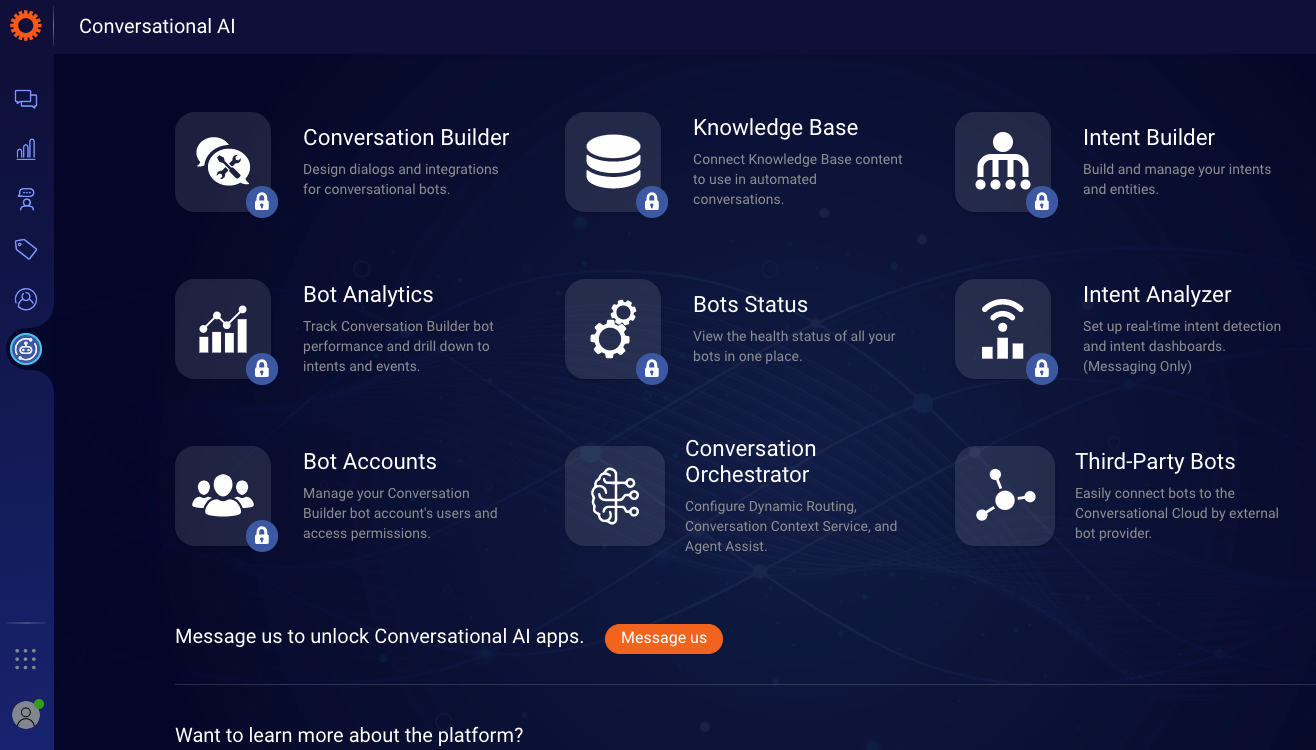
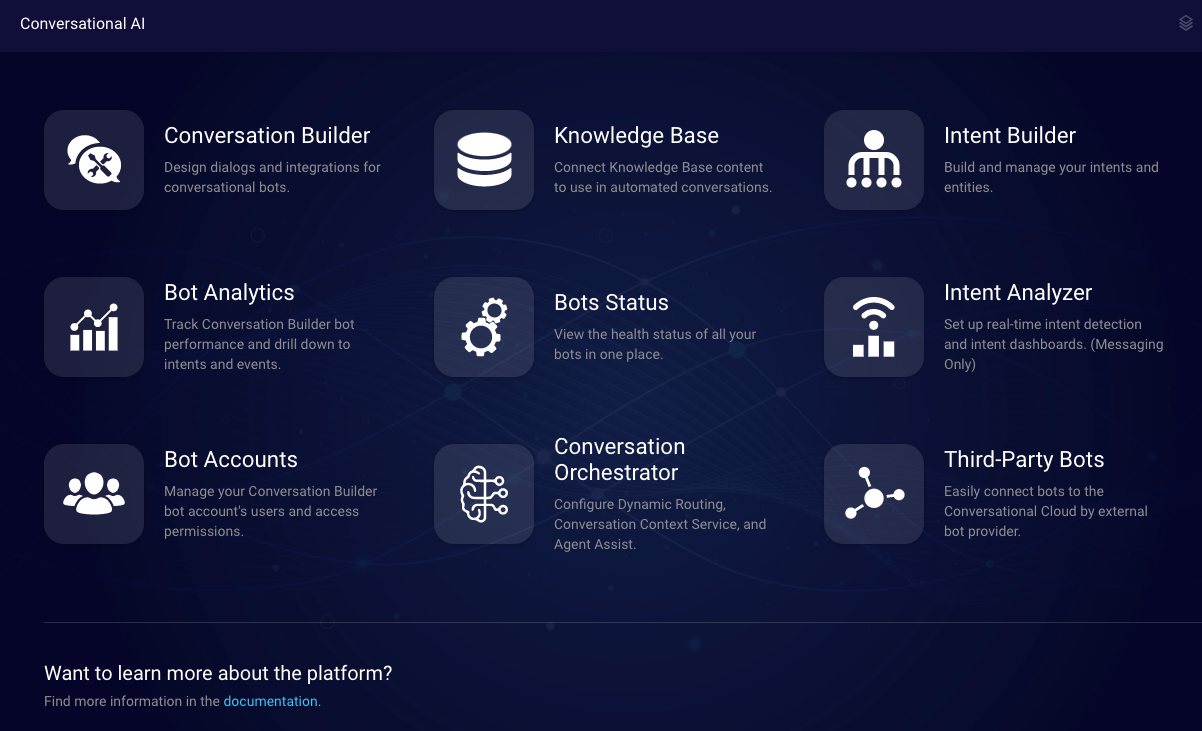
Copy edits and update image

diff --git a/pages/documents/ConversationalAI/ConversationalAI/PlatformOverview.md b/pages/documents/ConversationalAI/ConversationalAI/PlatformOverview.md
@@ -11,21 +11,23 @@ permalink: conversational-ai-overview.html
 indicator: both
 ---
 
-LivePerson's Conversational AI is a suite of integrated apps that work together to provide an all-in-one automation and AI solution.
+LivePerson's Conversational AI is a suite of integrated applications that work together to provide an all-in-one automation and AI solution.
 
 <img class="fancyimage" style="width:750px" src="img/ConvoBuilder/platform_main.png">
 
 ### Modules
 
-- [Conversation Builder](conversation-builder-bot-workspace.html) is the primary application that allows you to design new bots / automations. Leveraging all of the other apps, this is where the user configures and designs conversational flows, API integrations, etc.
+- [Conversation Builder](conversation-builder-bot-workspace.html) is the primary application that allows you to design and build bots. Leveraging all of the other applications, this is where the user configures and designs conversational flows, API integrations, etc.
 
 - [Intent Builder](conversation-builder-intent-builder-overview.html) is for building intents and entities that Conversation Builder uses to more accurately match consumer responses.
 
-- [Knowledge Base](conversation-builder-knowledge-base.html) stores articles of information that can be accessed by automations in Conversation Builder.
+- [Knowledge Base](conversation-builder-knowledge-base.html) stores articles of information that can be accessed by bots in Conversation Builder.
 
 - [Intent Analyzer](https://knowledge.liveperson.com/ai-bots-automation-intent-analyzer-overview.html) is your hub for tracking and maintaining intents in real-time.
 
-- [Bot Analytics](bot-analytics-overview.html) holds all of the operational and usage data for your automations.
+- [Bots Status](bots-status-overview.html) lets you monitor and manage your deployed bots.
+
+- [Bot Analytics](bot-analytics-overview.html) holds all of the operational and usage data for your bots.
 
 - [Bot Accounts](bot-accounts-permissions-per-role.html) is the administration area for managing permissions of Conversation Builder users.
 
